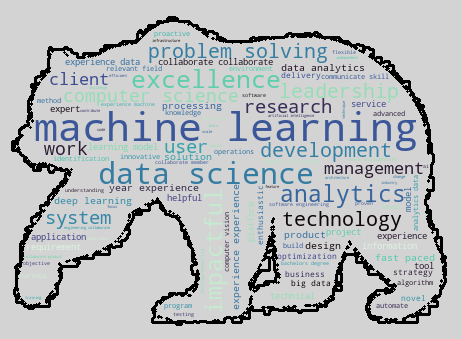
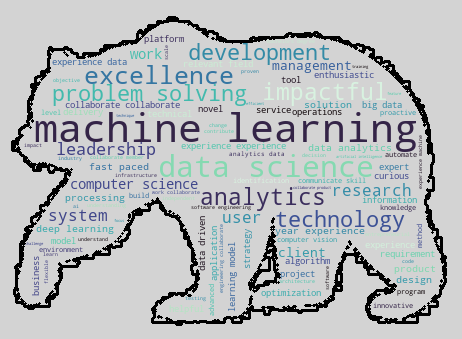
cleaning up tooling list and started big data list

Changed region(s): [[0.0606, 0.0885, 0.9394, 0.944]]

diff --git a/nlp_main.py b/nlp_main.py
@@ -4155,7 +4155,7 @@ def nlp_skill_lists(additional_stopwords):
                       'informatica', 'oracle', 'redhat', 'sap', 'splunk', 'vmware' ] ### might need to deal with 'google cloud' bigram
     
     subtopic_containers = ['artifactory', 'buildah', 'buildkit', 'container', 'containerd', 'crun', 'dive', 'docker', 'hyperv',
-                           'kaniko', 'kubernetes', 'lxc', 'lxd', 'mesos', 'openshift', 'openvz', 'podman',
+                           'kaniko', 'kubernetes', 'lxc', 'lxd', 'mesos', 'openshift', 'openvz', 'orchestration', 'podman',
                            'rancher', 'rkt', 'runc', 'skopeo', 'vagrant', 'virtualbox', 'windock', 'zerovm'] ### 'dive' might have to be in context of cloud tech
     
     subtopic_agile = ['agile', 'backlog', 'kanban', 'mvp', 'roadmap', 'scrum', 'sprint', 'waterfall'] ###
@@ -4178,7 +4178,7 @@ def nlp_skill_lists(additional_stopwords):
                     'nteract', 'pycharm', 'pydev', 'rstudio', 'rodeo', 'spyder', 'sublime', 'thonny', 
                     'vim', 'visual studio'] ###
      
-    subtopic_version_control = ['bazaar', 'cvs', 'delta lake', 'dolt', 'dvc', 'git', 'lakefs', 'mercurial', 
+    subtopic_version_control = ['bazaar', 'bitbucket', 'cvs', 'delta lake', 'dolt', 'dvc', 'git', 'lakefs', 'mercurial', 
                                 'monotone', 'neptune', 'pachyderm', 'svn', 'tfs', 'vsts' ]  ### need to add in othe rgit elements like GitHub, Git LFS, GitLab, etc.
     
     subtopic_mathematics = ['algebra',  'bayes', 'calculus', 'differential', 'discrete math', 'geometry', 'graph theory', 
@@ -4204,11 +4204,13 @@ def nlp_skill_lists(additional_stopwords):
                               'linear regression', 'logistic regression', 'lvq', 'naive bayes', 'pca', 'random forest',
                               'reinforcement', 'supervised', 'sqlite', 'svm', 'unsupervised'] ###
 
-####### !!!!!!!! WORKING HERE: create subtopic lists 
-    subtopic_databases = ['cassandra', 'couchbase', 'db2', 'dynamodb', 'elasticsearch', 'flockdb', 'hbase',
+    subtopic_databases = ['access', 'cassandra', 'couchbase', 'db2', 'dynamodb', 'elasticsearch', 'flockdb', 'hbase',
                           'hibari', 'mldb', 'mongodb', 'mssql', 'mysql', 'neo4j', 'nosql', 'orientdb',
-                          'postgresql', 'rabbitmq', 'redis', 'riak', 'terrstore']    
+                          'postgresql', 'rabbitmq', 'rdbms', 'redis', 'relational database','riak', 'terrstore']    
+    
+    subtopic_big_data = []
 
+####### !!!!!!!! WORKING HERE: create subtopic lists 
     subtopic_tooling = ['access', 'accumulo', 'alteryx', 'anaconda', 'ansible', 'apache', 'arcgis', 'aspnet', 'bash',
                         'bitbucket', 'cad', 'cassandra', 'centos', 'cli', 'cloudera', 'cognos', 'cosmos', 'couchbase', 'cplex', 'cuda',
                         'd3js', 'databricks', 'datarobot', 'dataminr', 'db2', 'delfi', 'docker', 'domo', 'dynamodb', 
@@ -5216,11 +5218,11 @@ def nlp_skill_lists(additional_stopwords):
                            'workstreams'] 
     
     ds_skills_combined = ds_cred_terms + ds_tech_skill_terms + ds_soft_skill_terms + ds_prof_skill_terms
-    subtopics_combined = (subtopic_aws + subtopic_cloud + subtopic_agile + subtopic_language + subtopic_tooling +
-                         subtopic_math_models + subtopic_nlp + subtopic_viz+subtopic_r + subtopic_dl_frameworks +
+    subtopics_combined = (subtopic_aws + subtopic_cloud + subtopic_agile + subtopic_language + subtopic_big_data +
+                         subtopic_math_models + subtopic_nlp + subtopic_viz + subtopic_r + subtopic_dl_frameworks +
                          subtopic_containers + subtopic_datatypes + subtopic_ide + subtopic_databases +
                          subtopic_version_control + subtopic_mathematics + subtopic_sql + subtopic_dl_algorithms +
-                         subtopic_dl_supporting + subtopic_ml_algorithms)
+                         subtopic_dl_supporting + subtopic_ml_algorithms) #subtopic_tooling +
 
     # confirm exclusivity of each list with the additional_stopwords list in the clean_terms_for_nlp function
     print('\n***** Stopword and Skill List Testing ***** \n')
